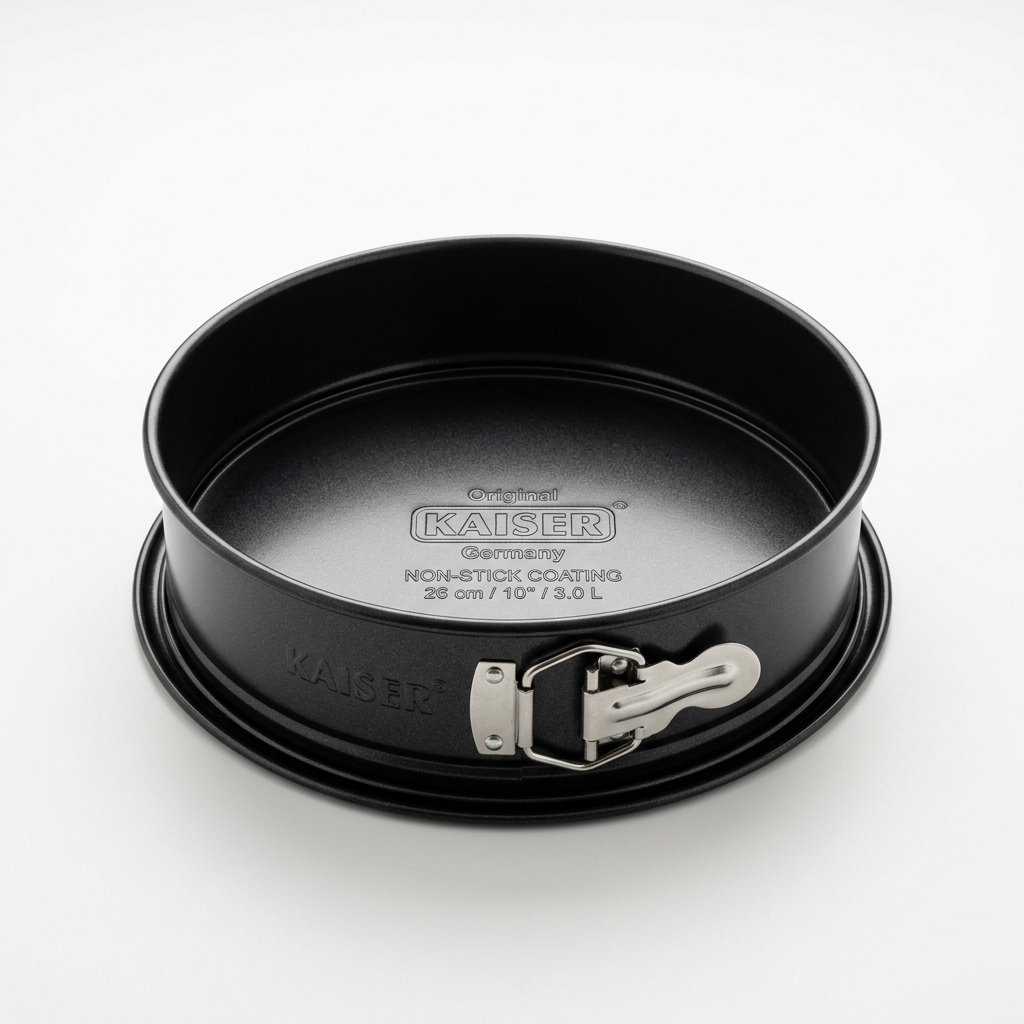
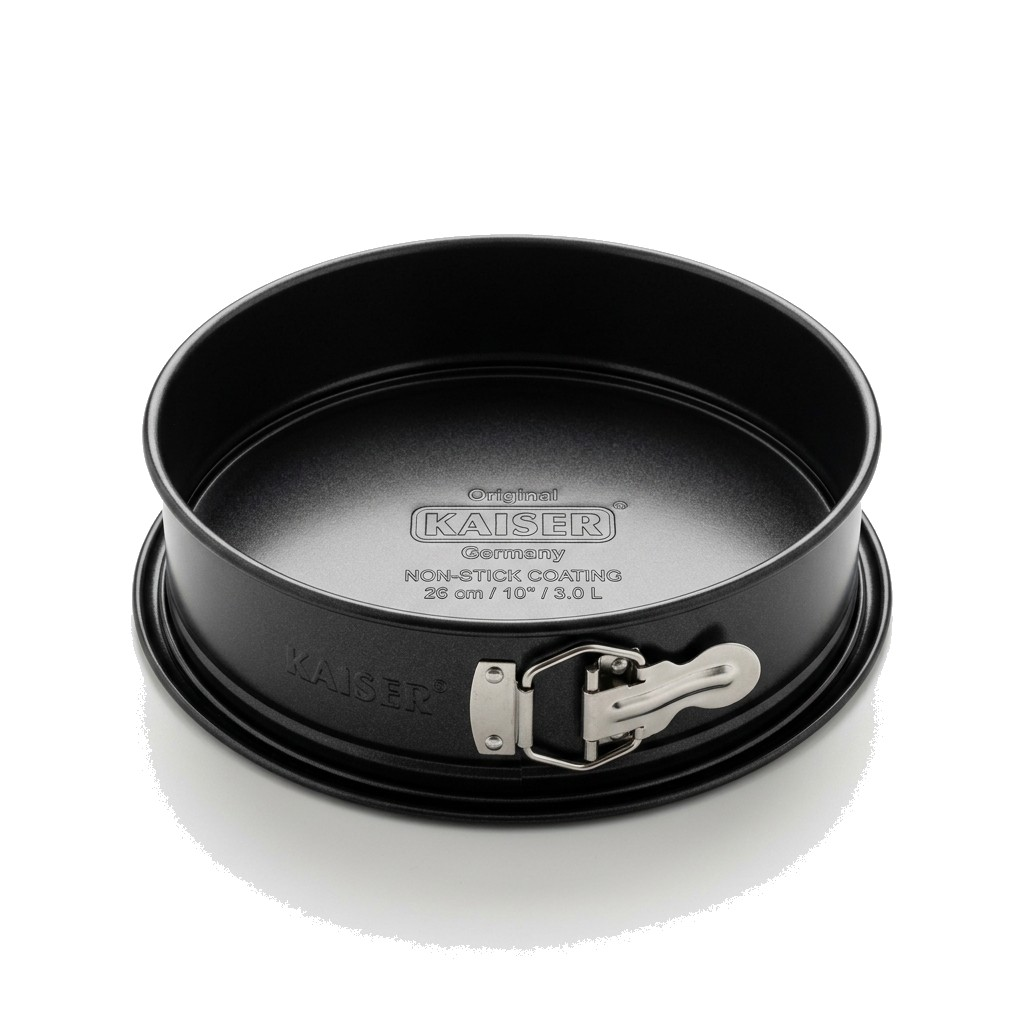
Weißer Bild-Hintergrund: Demo-Fotos aufgeweißt + Auto-Aufweißung beim Upload
- Demo-Produktbilder (Riess, Kaiser, WMF) per Flood-Fill auf weißen Hintergrund
- processImage: whitenBackground() -> heller, randverbundener Hintergrund wird
  automatisch reinweiß, farbige/dunkle Produktbereiche bleiben unberührt

Changed region(s): [[0.0938, 0.625, 0.875, 0.9688]]

diff --git a/assets/js/api.js b/assets/js/api.js
@@ -99,8 +99,36 @@
     ctx.imageSmoothingEnabled = true; ctx.imageSmoothingQuality = 'high';
     ctx.drawImage(src, dx, dy, dw, dh);
     if (src.close) src.close();
+    whitenBackground(ctx, preset.w, preset.h);
     var blob = await new Promise(function (res) { canvas.toBlob(res, 'image/jpeg', preset.quality); });
     return blob || file;
+  }
+  // Hintergrund automatisch aufweißen: helle, wenig gesättigte Pixel, die mit dem
+  // Rand verbunden sind, auf reines Weiß setzen (Flood-Fill). Farbige/dunkle
+  // Produktbereiche wirken als Grenze und bleiben unangetastet.
+  function whitenBackground(ctx, W, H) {
+    var img;
+    try { img = ctx.getImageData(0, 0, W, H); } catch (e) { return; }
+    var d = img.data, N = W * H;
+    var visited = new Uint8Array(N);
+    var stack = [];
+    function push(x, y) { var i = y * W + x; if (!visited[i]) { visited[i] = 1; stack.push(i); } }
+    for (var x = 0; x < W; x++) { push(x, 0); push(x, H - 1); }
+    for (var y = 0; y < H; y++) { push(0, y); push(W - 1, y); }
+    while (stack.length) {
+      var i = stack.pop(), p = i * 4;
+      var r = d[p], g = d[p + 1], b = d[p + 2];
+      var mx = r > g ? (r > b ? r : b) : (g > b ? g : b);
+      var mn = r < g ? (r < b ? r : b) : (g < b ? g : b);
+      if (mn < 170 || (mx - mn) > 32) continue; // Produktgrenze -> nicht aufweißen/ausbreiten
+      d[p] = 255; d[p + 1] = 255; d[p + 2] = 255;
+      var xx = i % W, yy = (i - xx) / W;
+      if (xx > 0) push(xx - 1, yy);
+      if (xx < W - 1) push(xx + 1, yy);
+      if (yy > 0) push(xx, yy - 1);
+      if (yy < H - 1) push(xx, yy + 1);
+    }
+    ctx.putImageData(img, 0, 0);
   }
   async function uploadImage(blobOrFile) {
     var path = 'products/' + Date.now() + '-' + Math.random().toString(36).slice(2, 8) + '.jpg';
